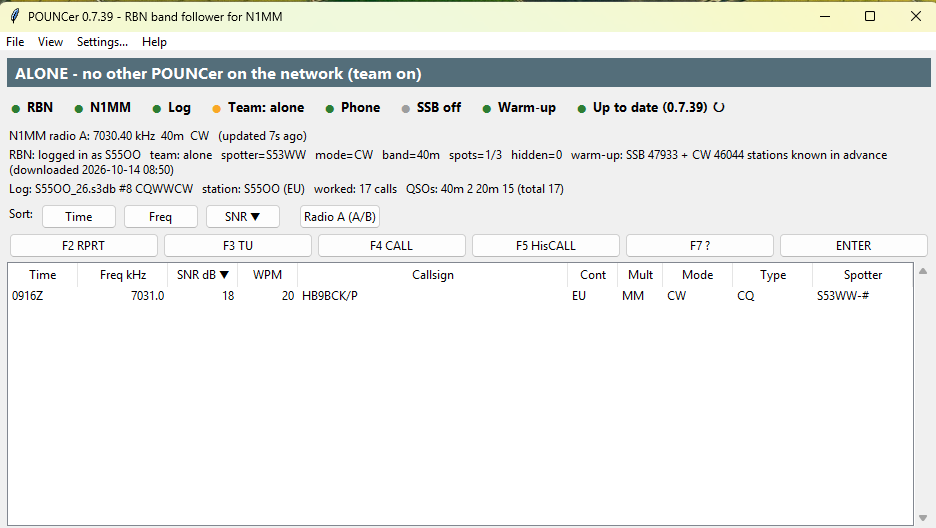
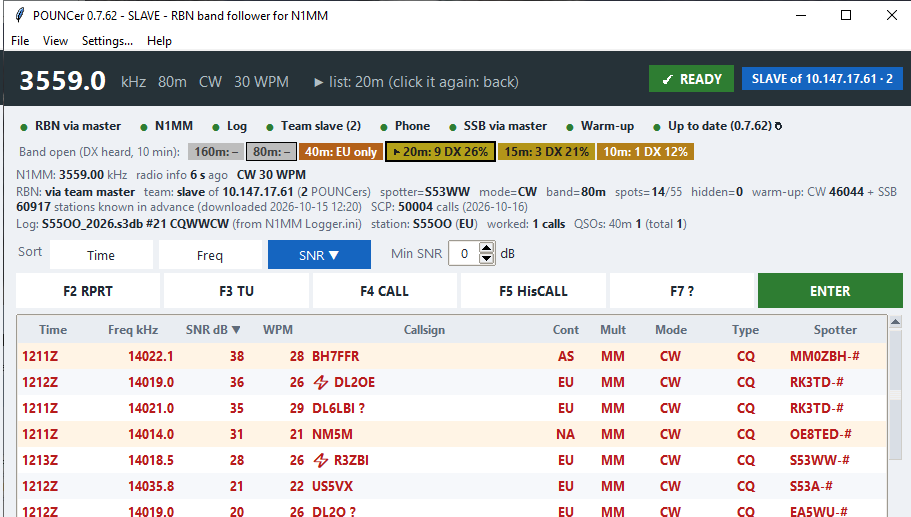
docs: new main-window screenshot (0.7.62) and README layout text
Claude-Session: https://claude.ai/code/session_011QcRYmyCsvSDNN3JSg7TCP

diff --git a/README.md b/README.md
@@ -158,24 +158,26 @@ is required.
 
 ## Main window menu
 
-<p align="center"><img src="docs/main-window.png" width="720"
-  alt="POUNCer 0.7.39 main window: menu bar File / View / Settings / Help, team bar, connection lights, N1MM / RBN / Log lines, sort and A/B buttons, F-key row and the spot list"></p>
+<p align="center"><img src="docs/main-window.png" width="760"
+  alt="POUNCer 0.7.62 main window: dark top bar with 3559.0 kHz 80m CW 30 WPM, READY badge and team badge SLAVE; connection lights; band open chips coloured by DX share with 20m selected; N1MM / RBN / Log info lines with bold values; Sort, Min SNR, F-keys with a green ENTER; spot list with new multipliers in red"></p>
 
-*The Windows main window (0.7.39; the look changed in 0.7.55, see below):
-menu bar, team bar, connection lights (RBN, N1MM, Log, Team, Phone, SSB,
-Warm-up, Update), the N1MM / RBN / Log lines, Sort and A/B buttons, the
-F-key row and the spot list.*
+*The Windows main window (0.7.62, a team slave on 80m): the 20m band chip is
+clicked, so the list shows the 20m spots while the radio stays on 80m;
+new multipliers in red, ⚡ = rare CQ, ? = not in Super Check Partial.*
 
-Since 0.7.55 the window is laid out like this, from the top:
+The window is laid out like this, from the top:
 
 - a **dark top bar**: the radio frequency **large**, with band, mode, CW
   speed (and the other radio's frequency in SO2R / SO2V) next to it; on the
   right the **READY / CHECK / NOT READY** badge (click it to show the check
   items) and the team badge (MASTER / SLAVE / ALONE / TEAM OFF);
 - the check items - only while something is wrong (or after a click);
-- **one row of status chips**: the connection lights, then *Band open*;
+- **one row of status chips**: the connection lights, then *Band open* -
+  coloured from orange (only your continent heard) to green (all DX);
+  **click a band** to list its spots while the radio stays;
 - small grey info lines (N1MM, RBN, Log) with the values in bold;
-- Sort (the active sort key filled blue), Min SNR, Radio A/B;
+- Sort (the active sort key filled blue), Min SNR, and Radio A/B (only while
+  N1MM reports two radios);
 - the F-keys (ENTER green);
 - the spot list: taller rows, light zebra stripes, bold column headings;
 - a status bar: what the last tap did, and the phone page address.
@@ -183,8 +185,8 @@ Since 0.7.55 the window is laid out like this, from the top:
 The options and actions are in the menu bar (sort, the A / B key and the
 F-keys stay as buttons - they're used all contest long):
 
-* **File** - open the config folder (Explorer), Reconnect log, Restart
-  POUNCer, Exit.
+* **File** - open the config folder (Explorer), Reconnect log, Start
+  autostart programs now, Open the autostart folder, Restart POUNCer, Exit.
 * **View** - *Also enter callsign in N1MM* and *Hide worked* (tick),
   **Compact window (beside N1MM)** and **Always on top** (tick), Clear spots,
   Contest summary, Phone page in the browser.

diff --git a/CHANGELOG.md b/CHANGELOG.md
@@ -1,5 +1,12 @@
 # POUNCer — Changelog
 
+## Docs — 2026-10-16 (2)
+
+- **docs/main-window.png**: a new screenshot of the 0.7.62 window (top bar,
+  READY / team badges, band chips coloured by DX share with a band clicked,
+  bold info lines, green ENTER, spot list); README caption and layout list
+  updated (clickable band chips, A/B only with two radios, autostart menu).
+
 ## v0.7.62 — 2026-10-16 — Super Check Partial checked at every start
 
 - MASTER.SCP is now checked **at every start** (was: only when our copy was
